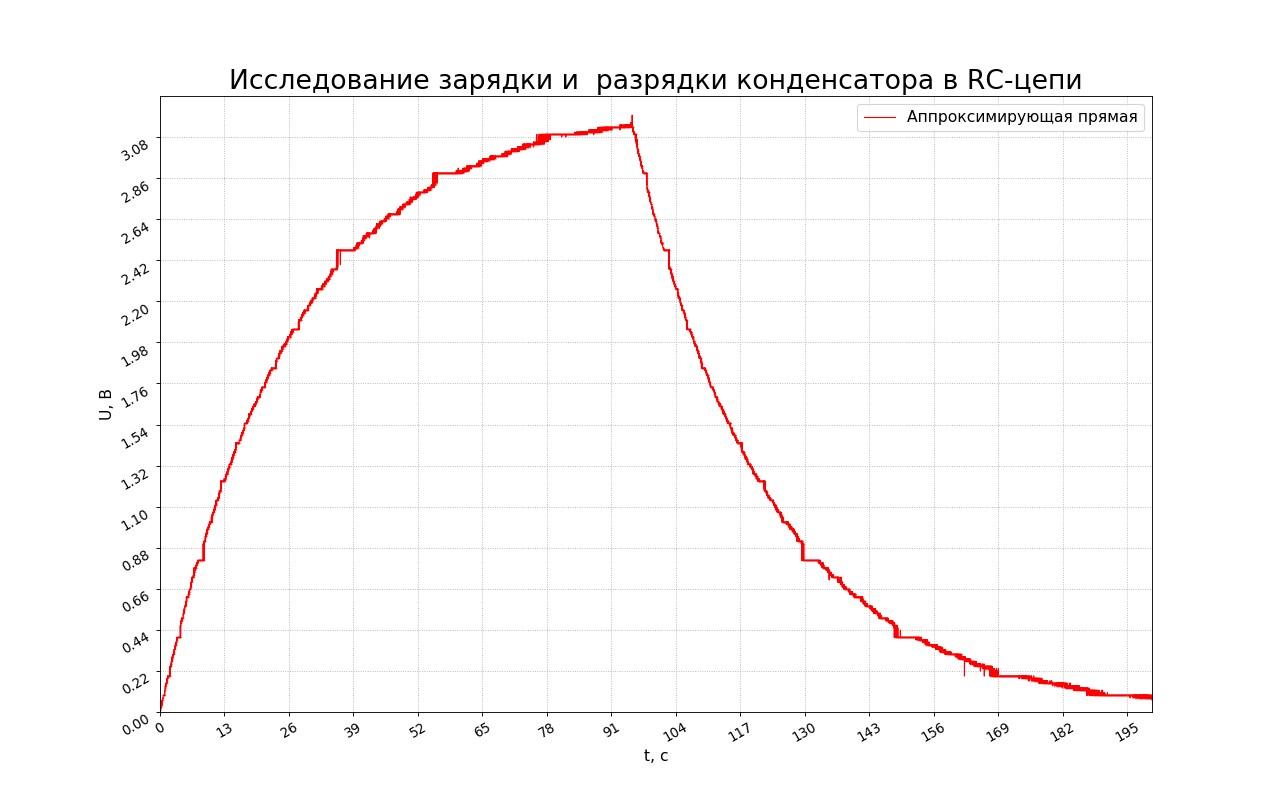
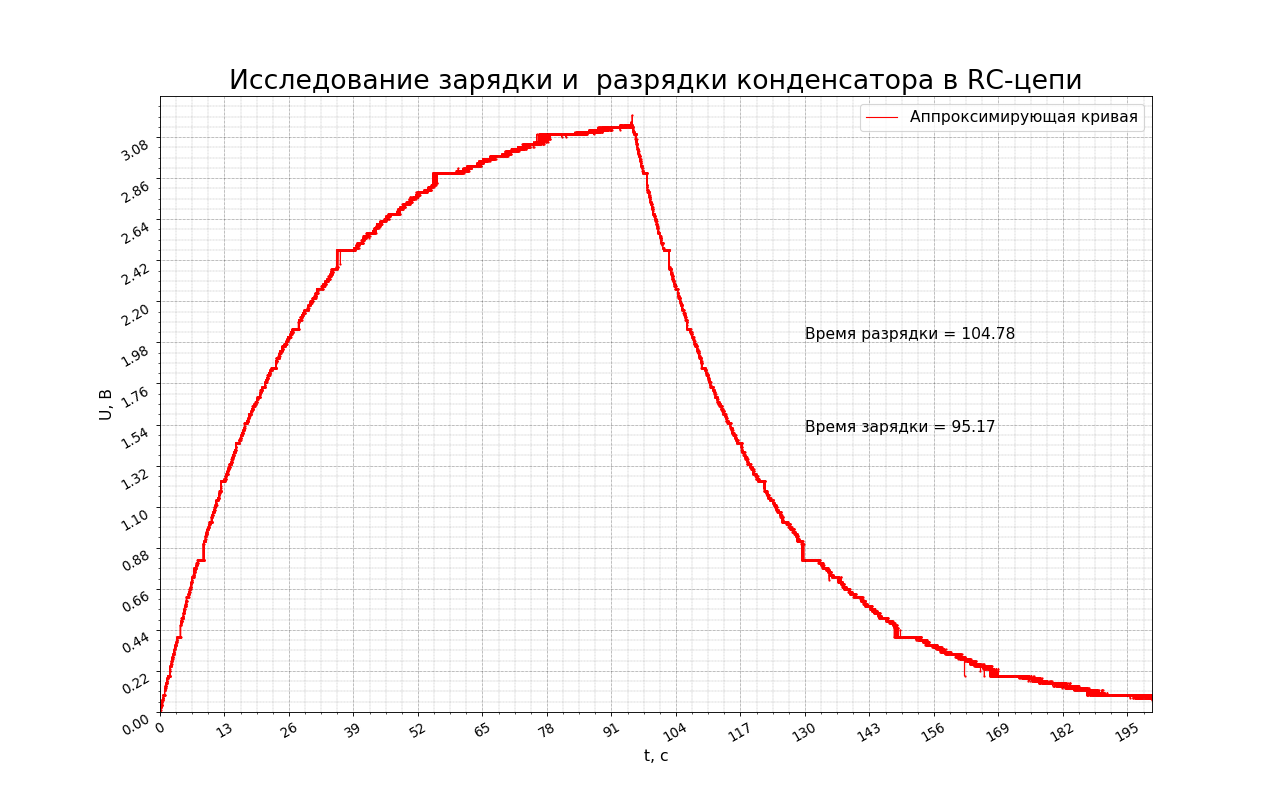
Laba 8 is complete

diff --git a/Python_Scripts/8-graphs.py b/Python_Scripts/8-graphs.py
@@ -1,6 +1,5 @@
 from matplotlib import pyplot as plt
 import numpy as np
-import textwrap
 
 V_max = 3.3
 levels = 2**8
@@ -29,21 +28,42 @@ time_arr = Time_Division (volt_arr, time_step)
 
 plt.figure(figsize = (16, 10), dpi = 80)
 
-title = 'Исследование зарядки и  разрядки конденсатора в RC-цепи'
-plt.title (title, loc = 'center', fontsize = 24)
+plt.title ('Исследование зарядки и  разрядки конденсатора в RC-цепи', loc = 'center', fontsize = 24)
 
 plt.xlabel('t, c', fontsize = 14)
-plt.xlim([0, (time_arr.size + 1) * time_step])
+plt.xlim(0, (time_arr.size) * time_step)
 plt.xticks(ticks = np.arange(0, time_arr.max(), time_step * 1000), fontsize = 12, rotation = 30, ha = 'center', va = 'top') 
 
 plt.ylabel('U, В', fontsize = 14)
-plt.ylim([0, V_max])
+plt.ylim(0, V_max)
 plt.yticks(ticks = np.arange(0, V_max, V_max / 15), fontsize = 12, rotation = 30, ha = 'right', va = 'top') 
 
-plt.scatter(time_arr, volt_arr, s = 0.01, color = 'red')
-plt.grid(ls = ':')
+plt.grid(color = 'black',                                      
+        linewidth = 0.45,    
+        linestyle = 'dotted')
 
-plt.plot(time_arr, volt_arr, 'r', linewidth = 1, color = 'red', label='Аппроксимирующая прямая', linestyle = '-')
+plt.minorticks_on()
+
+plt.grid(which='minor',
+         color = 'grey',
+         linewidth = 0.25,
+         linestyle = 'dashed')
+
+
+charge_time = 0
+index = 0
+while volt_arr[index] < volt_arr.max():
+    charge_time += time_step
+    index += 1
+
+discharge_time = time_arr.max() - charge_time
+
+plt.text(130, 1.5, 'Время зарядки = %.2f'   %charge_time,    fontsize = 14)
+plt.text(130, 2,   'Время разрядки = %.2f'  %discharge_time, fontsize = 14)
+
+plt.scatter(time_arr, volt_arr, s = 1, color = 'red')
+
+plt.plot(time_arr, volt_arr, 'r', linewidth = 1, color = 'red', label = 'Аппроксимирующая кривая', linestyle = '-')
 plt.legend (loc = 'best', fontsize = 14)
 
 plt.savefig ('Try.png')
